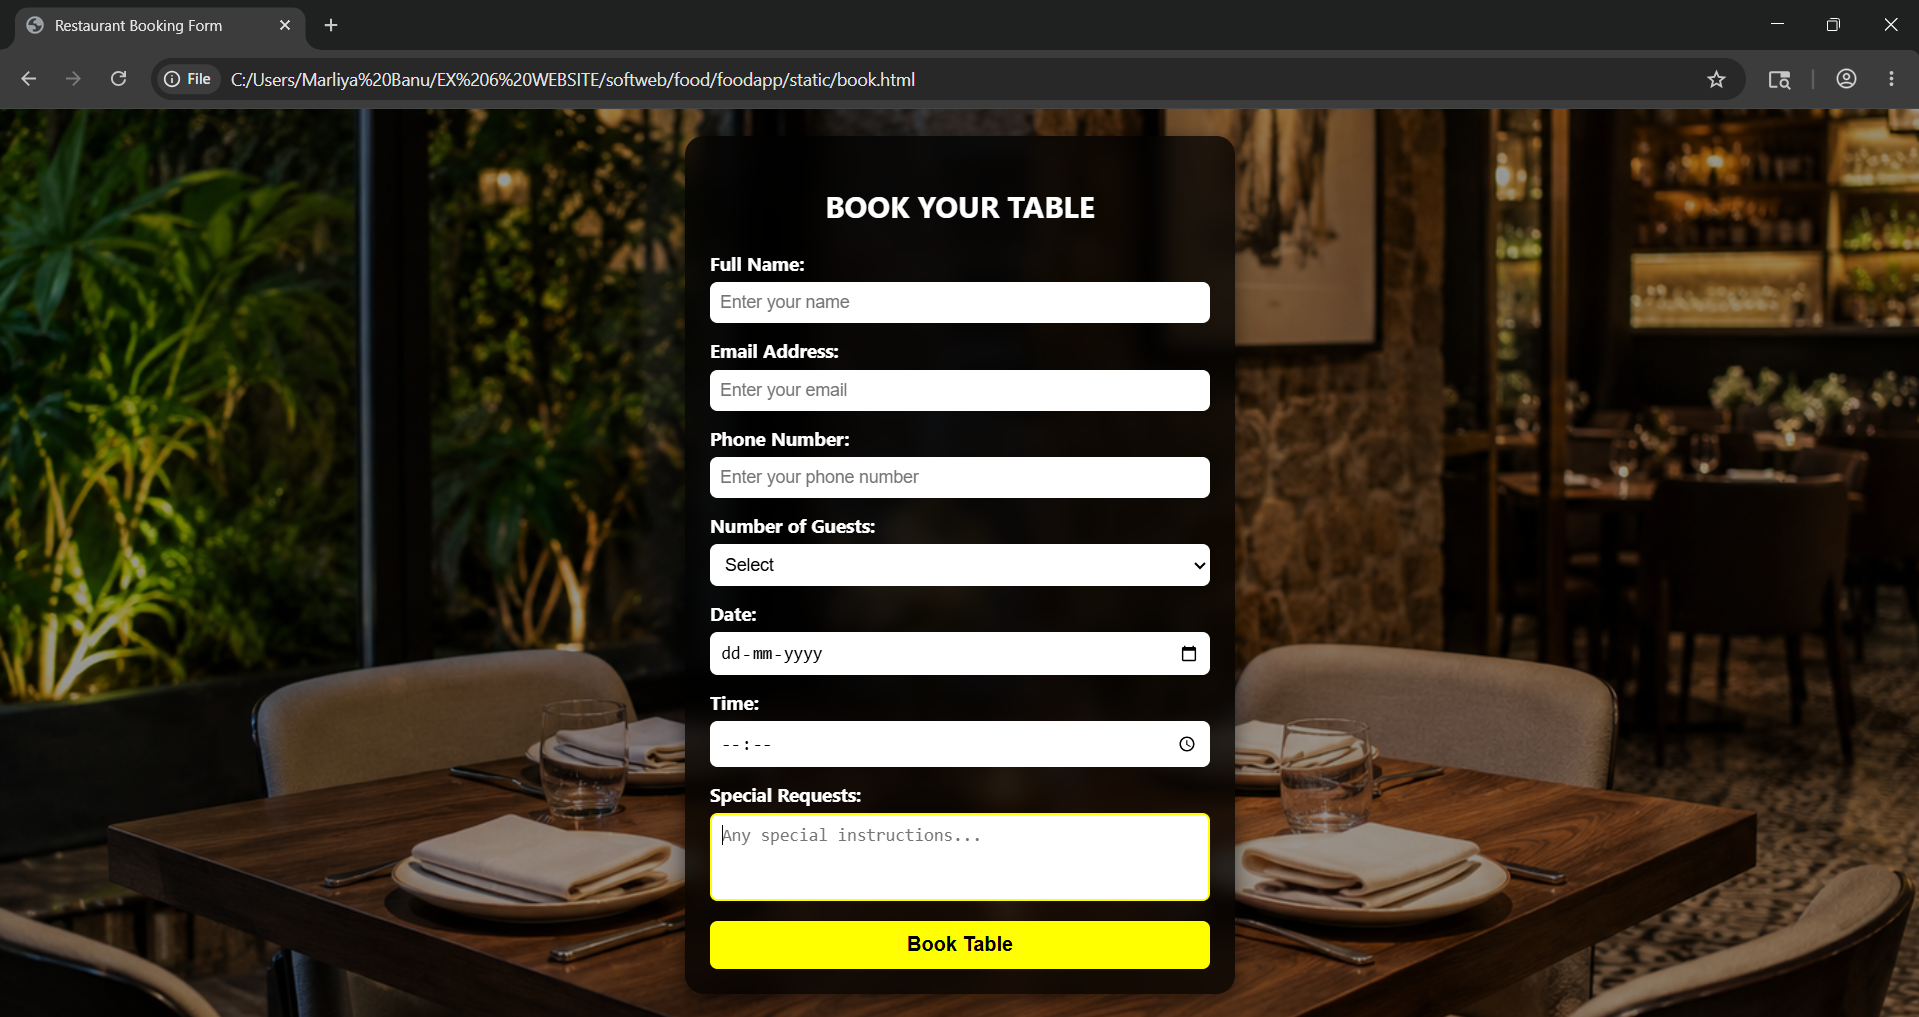
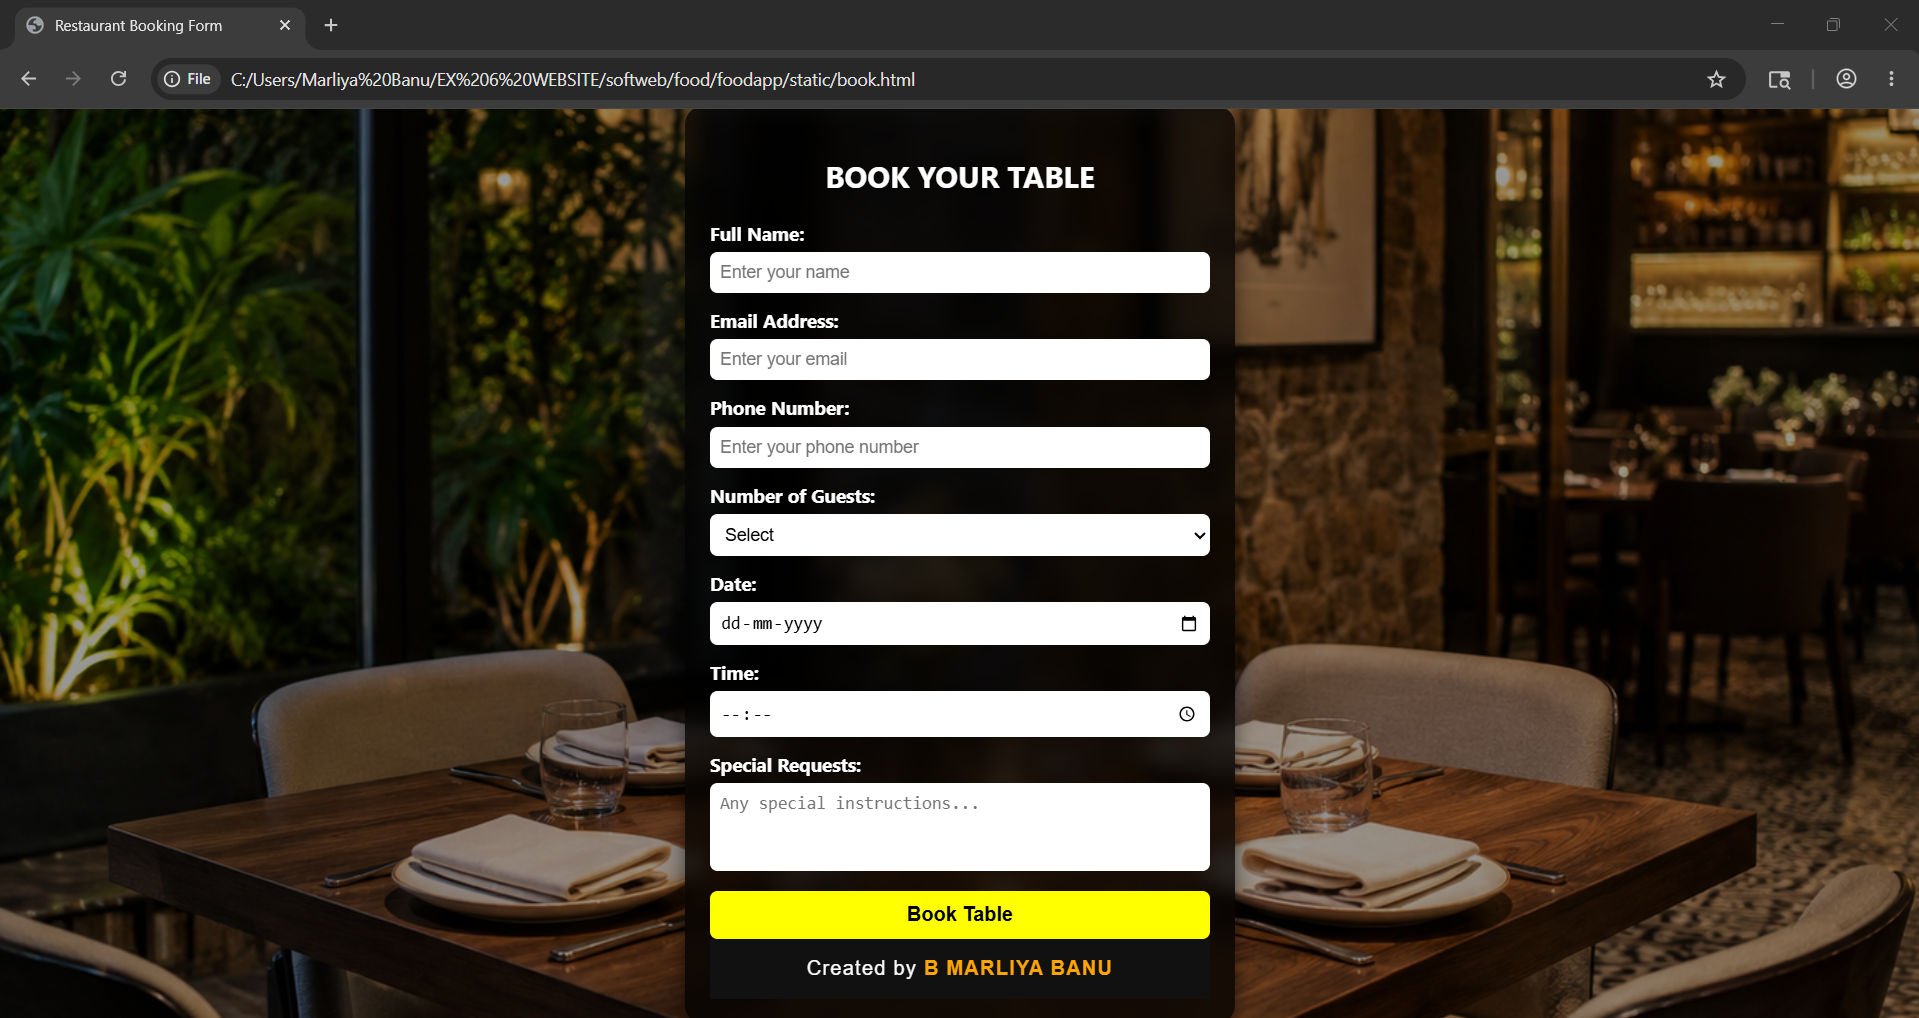
Success

diff --git a/food/foodapp/static/home.html b/food/foodapp/static/home.html
@@ -93,6 +93,20 @@
     .card a:hover {
       background-color: orangered;
     }
+          .footer{
+    background:#111;
+    color:white;
+    text-align:center;
+    padding:15px;
+    font-family:Arial;
+    letter-spacing:1px;
+}
+
+.footer span{
+    color:orange;
+    font-weight:bold;
+}
+   
   </style>
 </head>
 <body>
@@ -132,6 +146,12 @@
       <p>Weekends: 10.00 am to 5.00 pm</p>
       <a href="contact.html">CONTACT US</a>
     </div>
+    <div>
+      <footer class="footer">
+    Created by <span>B MARLIYA BANU</span>
+    </footer>
+    </div>
+
 
   </section>
 

diff --git a/food/foodapp/static/book.html b/food/foodapp/static/book.html
@@ -145,6 +145,19 @@
 
             background:gold;
         }
+        .footer{
+    background:#111;
+    color:white;
+    text-align:center;
+    padding:15px;
+    font-family:Arial;
+    letter-spacing:1px;
+}
+
+.footer span{
+    color:orange;
+    font-weight:bold;
+}
 
     </style>
 
@@ -227,7 +240,11 @@
         </div>
 
         <button type="submit">Book Table</button>
-
+    <div>
+      <footer class="footer">
+    Created by <span>B MARLIYA BANU</span>
+    </footer>
+    </div>
     </form>
 
 </body>

diff --git a/food/foodapp/static/administer.html b/food/foodapp/static/administer.html
@@ -48,6 +48,7 @@
             margin:15px 10px;
             color:black;
         }
+  
 
     </style>
 </head>
@@ -85,7 +86,7 @@
             <img src="C:\Users\Marliya Banu\EX 6 WEBSITE\softweb\food\foodapp\static\images\op .jpeg">
             <h1>MARKETING MANAGER</h1>
         </div>
-
+      
     </div>
 
 </body>

diff --git a/food/foodapp/static/contact.html b/food/foodapp/static/contact.html
@@ -50,6 +50,7 @@
         a:hover {
             text-decoration: underline;
         }
+  
 
     </style>
 </head>
@@ -61,6 +62,7 @@
         <p>Email: <a href="mailto:[email redacted]" style="color: yellow;">[email redacted]</a></p>
         <p>Address: 123 Food Street, City, Country</p>
     </div>
+  
 
 </body>
 </html>

diff --git a/food/foodapp/static/menu.html b/food/foodapp/static/menu.html
@@ -80,6 +80,7 @@
             font-weight: bold;
             color:white;
         }
+        
     </style>
 </head>
 <body>
@@ -163,6 +164,7 @@
             <div class="item-details"><div class="item-name">Falooda</div></div>
             <div class="item-price">Rs. 150</div>
         </div>
+     
     </div>
 
 </body>